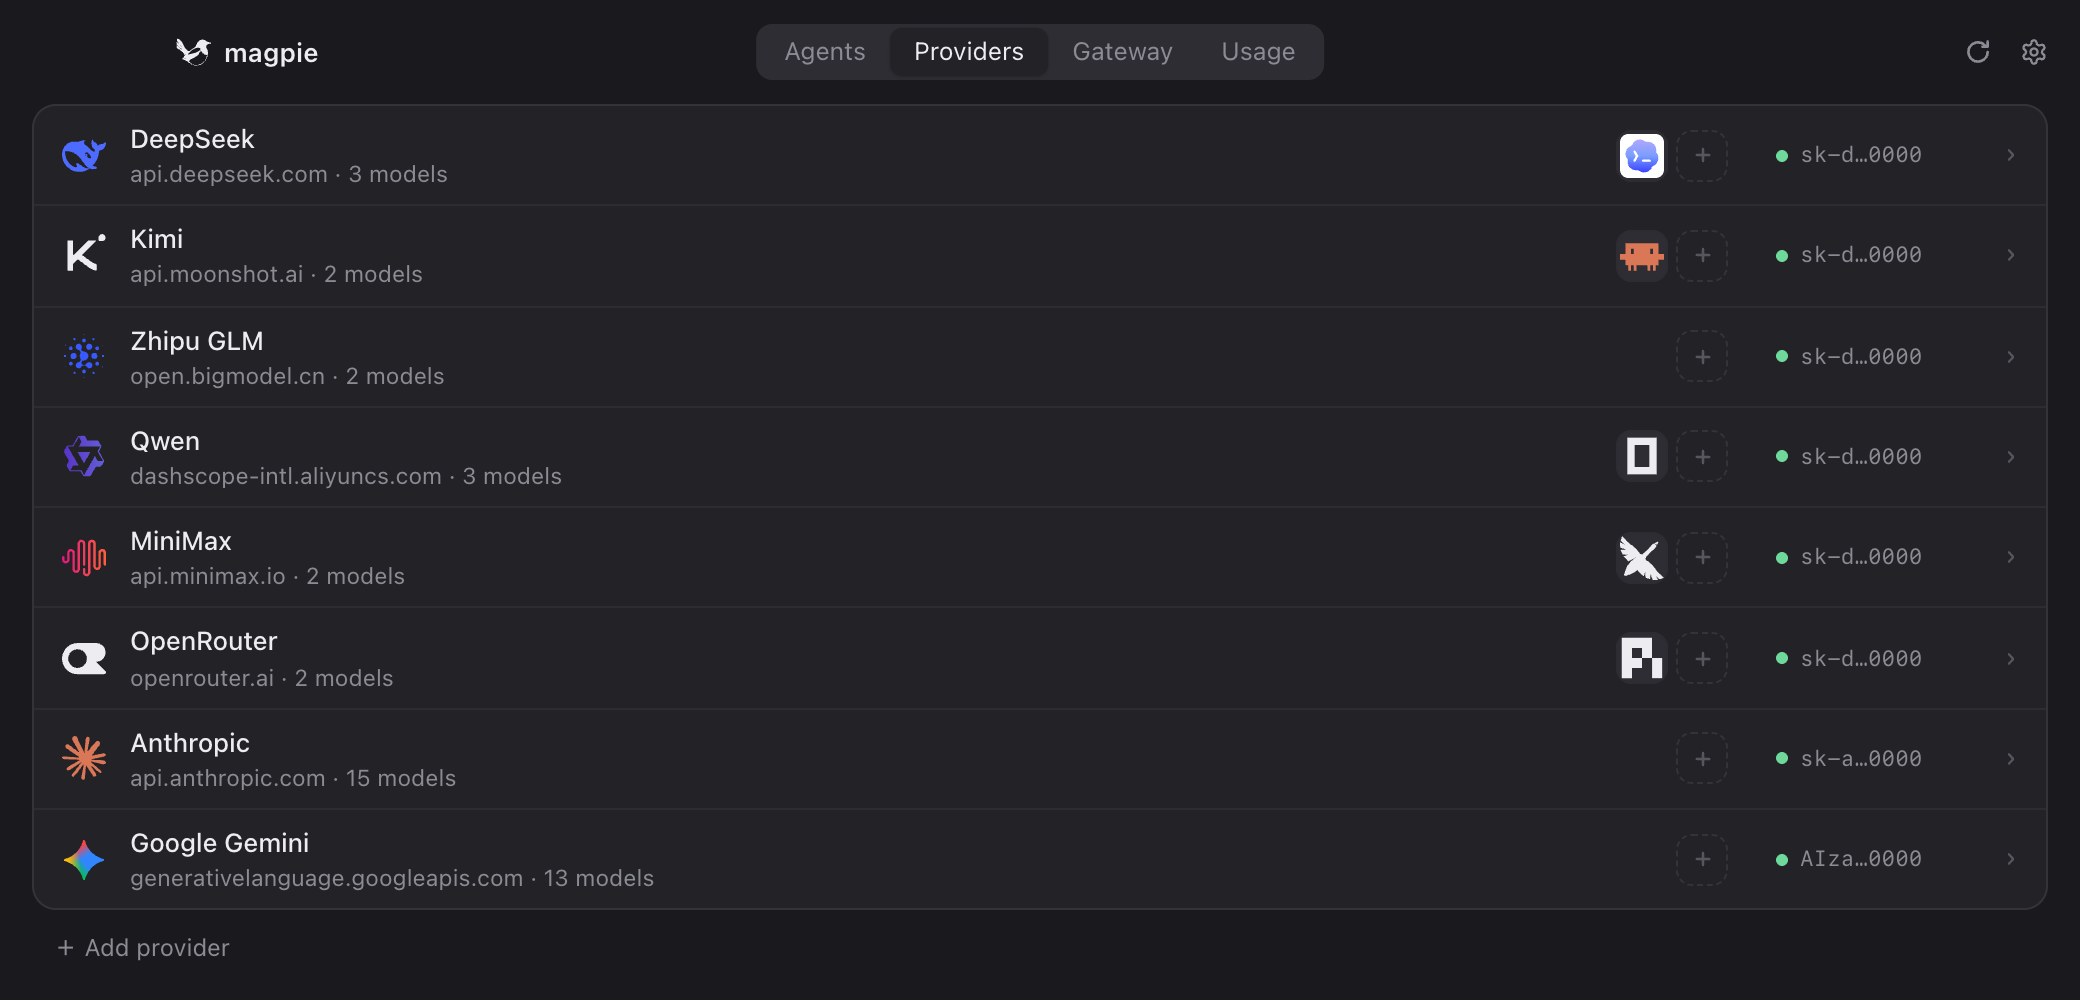
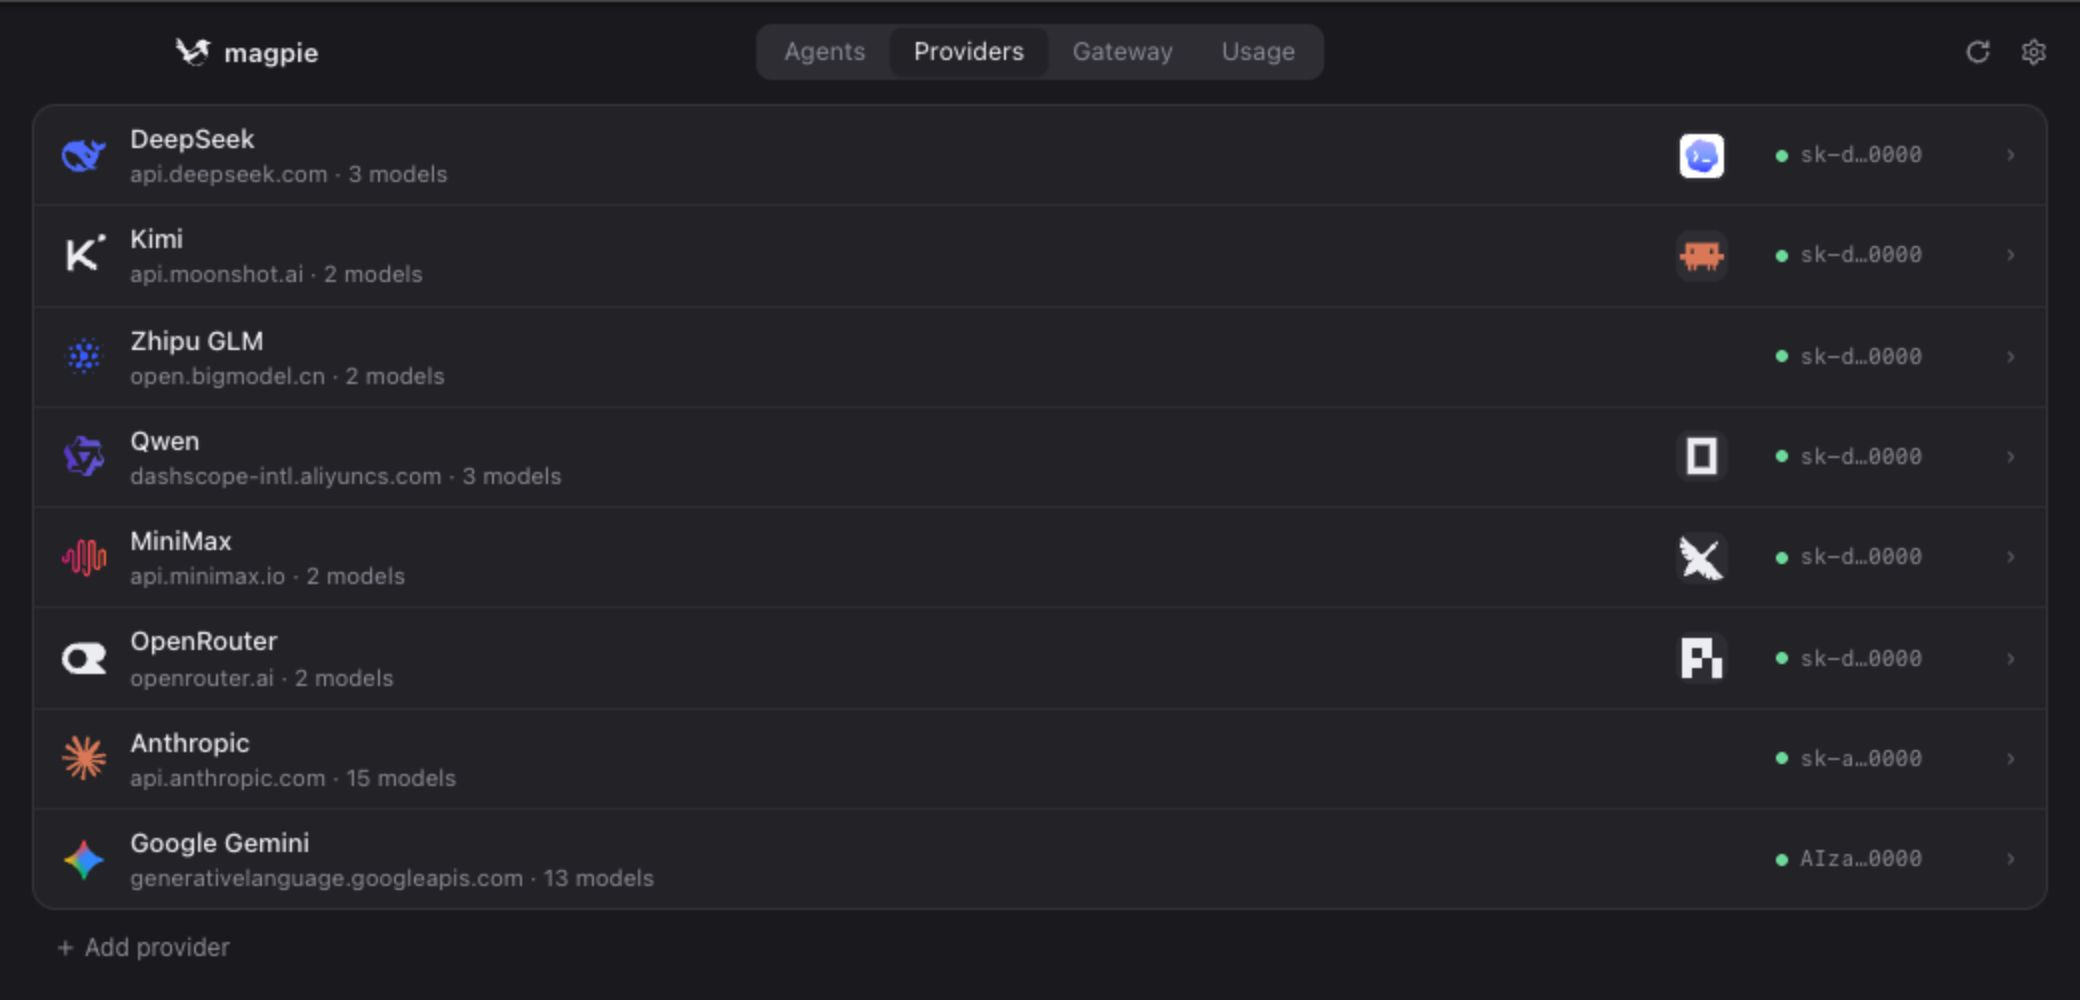
site: reshoot the panel, picker and providers on the current build
The screenshots still showed the row's + and an older control column. New
shots, dark and light, off a throwaway demo config (the same DeepSeek/Kimi/
GLM/Qwen/MiniMax/OpenRouter/Anthropic/Gemini set). The panel is a hair taller
now, so its height goes 470 -> 476.

diff --git a/site/public/index.html b/site/public/index.html
@@ -340,8 +340,8 @@ footer a:hover { color: var(--ink); }
   <section>
     <div class="split rev">
       <div>
-        <img class="for-light" loading="lazy" src="/img/panel-light.png" width="440" height="470" alt="The magpie menu bar panel: each agent on a different vendor's model">
-        <img class="for-dark" loading="lazy" src="/img/panel-dark.png" width="440" height="470" alt="The magpie menu bar panel: each agent on a different vendor's model">
+        <img class="for-light" loading="lazy" src="/img/panel-light.png" width="440" height="476" alt="The magpie menu bar panel: each agent on a different vendor's model">
+        <img class="for-dark" loading="lazy" src="/img/panel-dark.png" width="440" height="476" alt="The magpie menu bar panel: each agent on a different vendor's model">
       </div>
       <div>
         <p class="eyebrow">The menu bar</p>
